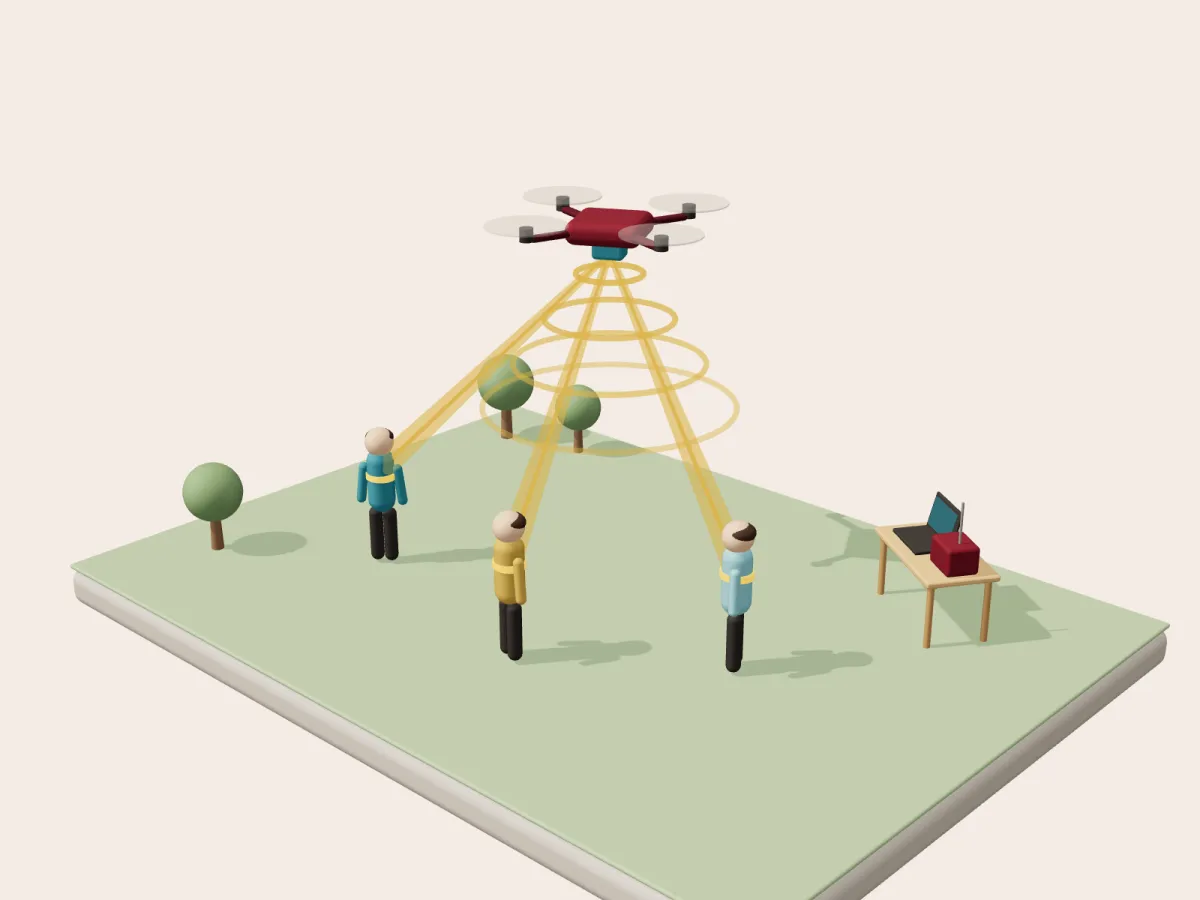
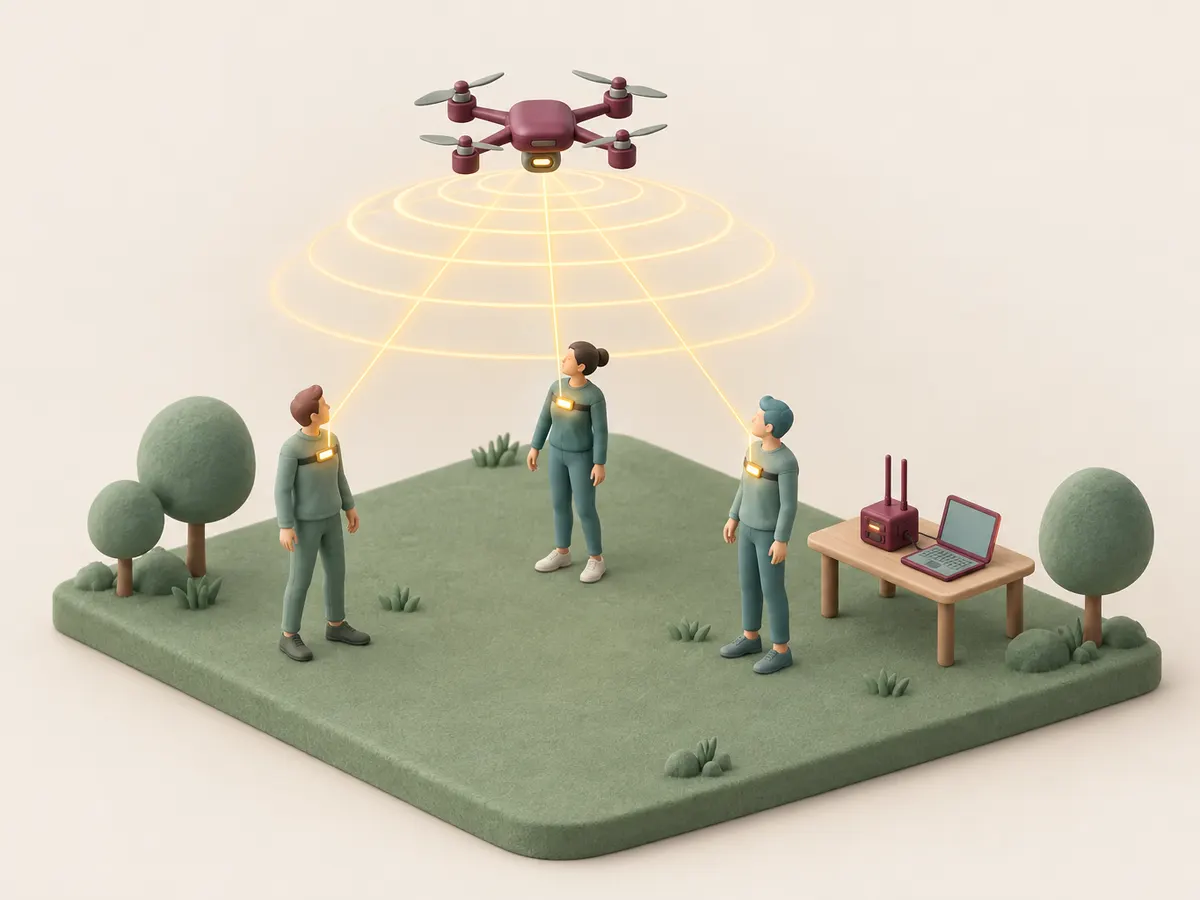
UAV-to-wearable and V2X figures: GPT Image 2.5 renders matching the other projects

diff --git a/index.html b/index.html
@@ -217,9 +217,9 @@
   .stack > h3.team-sub:first-child { margin-top: 4px; }
   .lede.one-line { max-width: none; white-space: nowrap; overflow: hidden; text-overflow: ellipsis; }
   @media (max-width: 640px) { .lede.one-line { white-space: normal; } }
-  ul.people.current { columns: 1; display: grid; grid-template-columns: repeat(3, 1fr); gap: 22px 28px; margin-bottom: 4px; }
+  ul.people.current { columns: 1; display: grid; grid-template-columns: repeat(3, 1fr); gap: 44px 40px; margin-bottom: 12px; }
   ul.people.alumni { columns: 2; column-gap: 28px; }
-  ul.people.current li { display: flex; align-items: center; gap: 10px; padding: 0; }
+  ul.people.current li { display: flex; align-items: center; gap: 16px; padding: 0; }
   .av { flex: none; width: 68px; height: 68px; border-radius: 50%; display: grid; place-items: center;
         background: radial-gradient(circle at 30% 25%, hsl(var(--h) 90% 96%), hsl(var(--h) 70% 84%));
         border: 2px solid hsl(var(--h) 55% 70%);

diff --git a/tools/gen_openai_image.py b/tools/gen_openai_image.py
@@ -1,0 +1,63 @@
+"""Generate a project figure with the OpenAI image API, using an existing render as the style reference.
+
+The API key is read from the OPENAI_API_KEY environment variable, or from ~/.config/openai/key
+(one line, chmod 600). It is never printed or written anywhere else.
+
+Usage:
+  python3 tools/gen_openai_image.py --list-models
+  python3 tools/gen_openai_image.py --name v2x --ref tools/renders/formula3.webp \
+      --prompt-file tools/image_prompts/v2x.txt [--model gpt-image-1] [--n 2]
+Output: tools/scenes/out/openai-<name>-<i>.png (git-ignored); then convert with cwebp to tools/renders/.
+"""
+import argparse, base64, os, sys
+from pathlib import Path
+
+from openai import OpenAI
+
+
+def api_key():
+    k = os.environ.get('OPENAI_API_KEY', '').strip()
+    f = Path.home() / '.config' / 'openai' / 'key'
+    if not k and f.exists():
+        k = f.read_text().strip()
+    if not k:
+        sys.exit('No API key: set OPENAI_API_KEY or create ~/.config/openai/key (chmod 600).')
+    return k
+
+
+def main():
+    ap = argparse.ArgumentParser()
+    ap.add_argument('--list-models', action='store_true')
+    ap.add_argument('--name')
+    ap.add_argument('--ref', action='append', default=[])
+    ap.add_argument('--prompt-file')
+    ap.add_argument('--model', default='gpt-image-1')
+    ap.add_argument('--size', default='1536x1024')
+    ap.add_argument('--quality', default='high')
+    ap.add_argument('--n', type=int, default=1)
+    a = ap.parse_args()
+    client = OpenAI(api_key=api_key())
+    if a.list_models:
+        ids = sorted(m.id for m in client.models.list() if 'image' in m.id or 'dall' in m.id)
+        print('\n'.join(ids) or '(no image models visible to this key)')
+        return
+    prompt = Path(a.prompt_file).read_text().strip()
+    out = Path(__file__).resolve().parent / 'scenes' / 'out'
+    out.mkdir(parents=True, exist_ok=True)
+    refs = [open(r, 'rb') for r in a.ref]
+    try:
+        if refs:
+            r = client.images.edit(model=a.model, image=refs, prompt=prompt, size=a.size, quality=a.quality, n=a.n)
+        else:
+            r = client.images.generate(model=a.model, prompt=prompt, size=a.size, quality=a.quality, n=a.n)
+    finally:
+        for f in refs:
+            f.close()
+    for i, d in enumerate(r.data, 1):
+        p = out / f'openai-{a.name}-{i}.png'
+        p.write_bytes(base64.b64decode(d.b64_json))
+        print('saved', p)
+
+
+if __name__ == '__main__':
+    main()

diff --git a/tools/render_figures.py b/tools/render_figures.py
@@ -88,9 +88,9 @@ figure('rural-iot', 'Rural Internet of Things: tagged cattle and an underground 
 figure('radar-bp', 'Non-invasive blood-pressure sensing: a millimeter-wave radar on a desk steers beams to a seated person’s wrist and neck at the same time and recovers the arterial pulse waveform',
        [(310, 228, 'mmWave RADAR', 'middle'), (150, 200, 'WRIST', 'middle'), (200, 20, 'NECK', 'middle')])
 
-# Rendered locally with three.js (tools/scenes/), not Higgsfield.
+# Generated with the OpenAI image API (gpt-image-2.5-flare, tools/gen_openai_image.py), FORMULA3 render as style reference.
 figure('uav-wearables', 'Drone-to-wearable links: a drone exchanges ultra-wideband pulses with wearable sensors on people below, and the team measures and models these channels',
-       [(200, 44, 'UAV', 'middle'), (310, 128, 'ULTRA-WIDEBAND PULSES', 'middle'), (16, 128, 'WEARABLE SENSOR'), (392, 236, 'CHANNEL MEASUREMENTS', 'end')])
+       [(258, 32, 'UAV', 'middle'), (396, 52, 'ULTRA-WIDEBAND PULSES', 'end'), (115, 248, 'WEARABLE SENSOR', 'middle'), (315, 248, 'CHANNEL MEASUREMENTS', 'middle')])
 
 figure('v2x', 'Hybrid visible-light and radio vehicle links: a following car talks to the car ahead through headlight and taillight light, while a roadside unit provides a radio backup link to both',
-       [(240, 30, 'RF (DSRC) BACKUP', 'middle'), (100, 195, 'HEADLIGHTS', 'middle'), (250, 222, 'TAILLIGHTS', 'middle'), (200, 282, 'VISIBLE-LIGHT V2V', 'middle')])
+       [(176, 30, 'RF (DSRC) BACKUP'), (180, 228, 'HEADLIGHTS', 'middle'), (300, 180, 'TAILLIGHTS', 'middle'), (230, 268, 'VISIBLE-LIGHT V2V', 'middle')])
